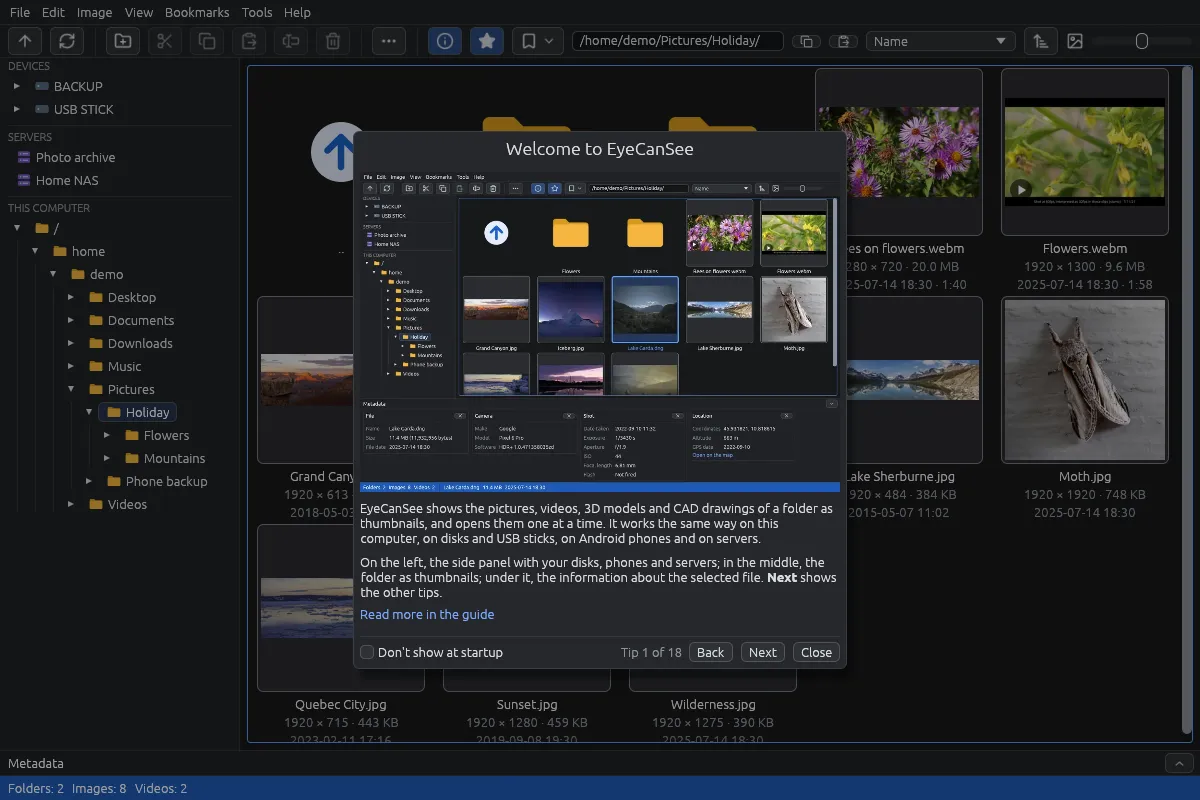
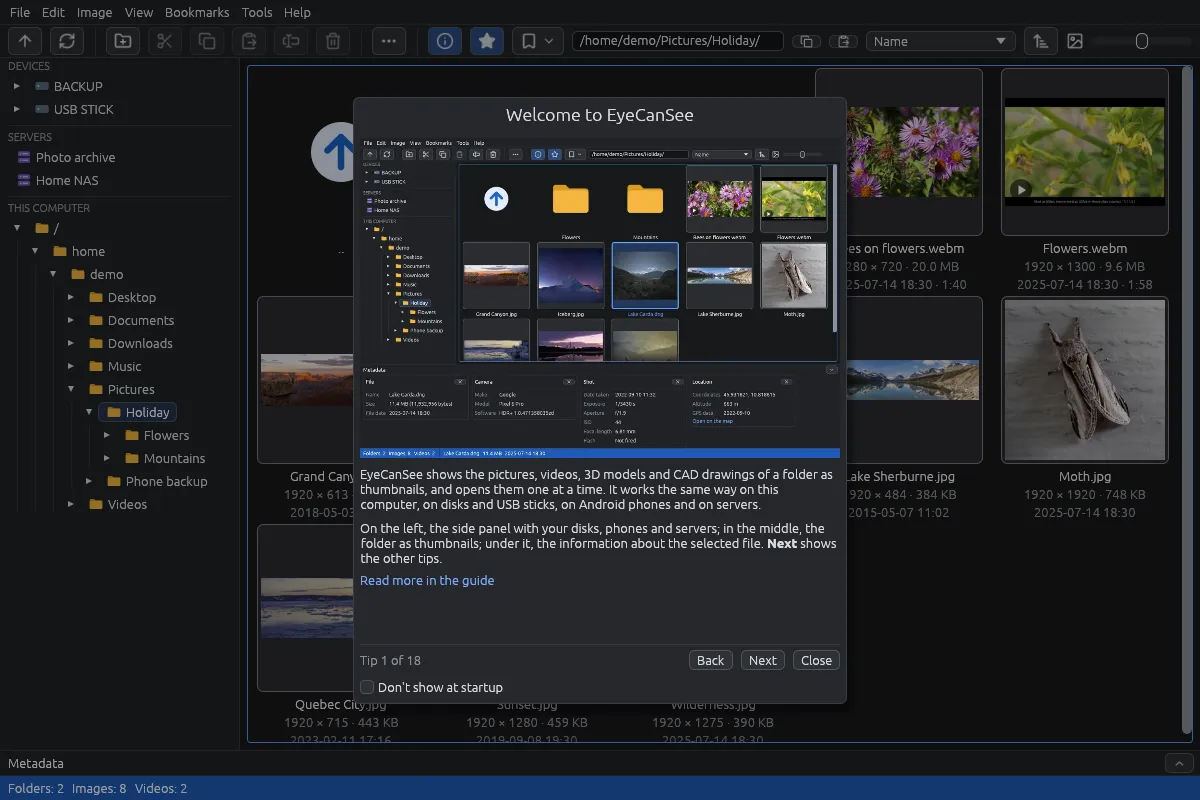
Tips: a window of fixed size, the tip sliding in from the side, a picture for every tip
The buttons stay in place from one tip to the next (the window took the size of each tip, and the
box overlapped the count), the box on its own line at the bottom, one viewer for every picture so it
is not loaded again (it flashed), and after Back or Next the tip slides in from that side as it fades
in (0.2 s). Six pictures made for the tips (docs/tips/, scenes in tools/shots/tips/): the guide
open, the right-click menu, a Cover box, the details under the thumbnails, the metadata panel with
the grid, the slideshow. Rule written in tips.rs and CONTRIBUTING: the tips follow the program.

Refs #113

Changed region(s): [[0.2775, 0.0938, 0.7092, 0.7812], [0.2775, 0.8125, 0.7092, 0.9062]]

diff --git a/src/tips.rs b/src/tips.rs
@@ -3,6 +3,10 @@
 //! link to the guide's page and "Don't show at startup". On by default, also for who updates from
 //! an older version (the key missing from `settings.json`); off from the box or from Options >
 //! General, until turned on there again. The next start shows the tip after the last one seen.
+//!
+//! Keep them true: a change to a feature a tip names (a key, a menu, a window, a picture) changes
+//! the tip in the same commit, `locales/*.ftl` and its picture (`tools/shots/tips/`, or the guide's);
+//! a new main feature gets a tip at the end of `TIPS`, one removed loses its tip.
 
 use std::time::{SystemTime, UNIX_EPOCH};
 
@@ -13,7 +17,7 @@ use crate::App;
 use crate::settings::Settings;
 
 /// One tip: its Fluent ids are `tip-<key>-title` and `tip-<key>-text`; `image` a picture of the
-/// guide (`help::IMAGES`), `page` the guide's page that tells more.
+/// tips (`PICTURES`) or of the guide (`help::IMAGES`), `page` the guide's page that tells more.
 pub(crate) struct Tip {
     pub(crate) key: &'static str,
     pub(crate) image: Option<&'static str>,
@@ -24,27 +28,43 @@ const fn tip(key: &'static str, image: Option<&'static str>, page: &'static str)
     Tip { key, image, page }
 }
 
+/// Pictures made for the tips only, `docs/tips/<name>.webp` (tools/shots/tips/, dark theme).
+macro_rules! pictures {
+    ($($name:literal),* $(,)?) => {
+        const PICTURES: &[(&str, &[u8])] = &[
+            $(($name, include_bytes!(concat!("../docs/tips/", $name, ".webp"))),)*
+        ];
+    };
+}
+
+pictures!["help", "right-click", "cover", "details", "metadata", "slideshow"];
+
+/// The address egui knows a picture by: the tips' own, otherwise the guide's.
+fn picture_uri(name: &str) -> String {
+    if PICTURES.iter().any(|p| p.0 == name) { format!("bytes://tips/{name}.webp") } else { crate::help::image_uri(name) }
+}
+
 /// The main features first, then the ones less in sight. New tips go at the end: who has seen
 /// the others finds them next.
 pub(crate) const TIPS: &[Tip] = &[
     tip("welcome", Some("start"), "start"),
-    tip("help", None, "start"),
-    tip("right-click", None, "start"),
+    tip("help", Some("help"), "start"),
+    tip("right-click", Some("right-click"), "start"),
     tip("phone", Some("phone"), "phone"),
     tip("servers", Some("server-manager"), "servers"),
     tip("viewer", Some("viewer"), "viewer"),
     tip("video", Some("video"), "video"),
     tip("editor", Some("editor"), "editor"),
-    tip("cover", None, "editor-cover"),
+    tip("cover", Some("cover"), "editor-cover"),
     tip("resize", Some("convert"), "convert"),
     tip("convert-video", Some("convert-video"), "convert-video"),
     tip("bookmarks", Some("bookmarks-menu"), "bookmarks"),
-    tip("metadata", Some("metadata-panel"), "metadata"),
+    tip("metadata", Some("metadata"), "metadata"),
     tip("models", Some("model-3d"), "model-3d"),
     tip("duplicates", Some("duplicates"), "duplicates"),
     tip("trash", Some("trash-strip"), "delete"),
-    tip("details", None, "options"),
-    tip("slideshow", None, "slideshow"),
+    tip("details", Some("details"), "options"),
+    tip("slideshow", Some("slideshow"), "slideshow"),
 ];
 
 /// Today, as days since 1970 in UTC.
@@ -67,17 +87,31 @@ pub(crate) fn seen(s: &mut Settings, i: usize, today: u64) {
 }
 
 /// The tip shown, and the viewer of the guide's pages that draws its picture (it also gives egui
-/// the loaders of the pictures, which until the guide is first opened are not there).
+/// the loaders of the pictures, which until the guide is first opened are not there). One viewer
+/// for every tip: a new one at each tip made the picture flash while it was loaded again.
 pub(crate) struct Open {
     i: usize,
     cache: CommonMarkCache,
+    /// The last Back (-1) or Next (1), and when (time of egui): the new tip slides in from that side.
+    from: f32,
+    since: f64,
+    /// The tips' own pictures given to egui.
+    loaded: bool,
 }
 
 impl Open {
     fn new(i: usize) -> Self {
-        Open { i, cache: CommonMarkCache::default() }
+        Open { i, cache: CommonMarkCache::default(), from: 0.0, since: 0.0, loaded: false }
     }
 }
+
+/// The window's content: as wide as the guide's pictures, as tall as a picture and the longest
+/// text, the same for every tip so the buttons stay where they are.
+const WIDTH: f32 = 480.0;
+const BODY: f32 = 500.0;
+/// The slide from the side: how far and how long.
+const SLIDE: f32 = 60.0;
+const SLIDE_SECS: f64 = 0.2;
 
 /// What a click in the window asks.
 enum Choice {
@@ -108,43 +142,39 @@ impl App {
         let Some(open) = &mut self.tip else { return };
         let i = open.i;
         crate::help::load_images(ctx);
+        if !open.loaded {
+            for (name, bytes) in PICTURES {
+                ctx.include_bytes(picture_uri(name), *bytes);
+            }
+            open.loaded = true;
+        }
         let tip = &TIPS[i];
         let t = |id: &str| self.i18n.t(id);
-        let (title, text) = (t(&format!("tip-{}-title", tip.key)), t(&format!("tip-{}-text", tip.key)));
+        let (title, text, link) = (t(&format!("tip-{}-title", tip.key)), t(&format!("tip-{}-text", tip.key)), t("tip-guide"));
+        let count = self.i18n.t_args("tip-count", &[("n", &(i + 1).to_string()), ("of", &TIPS.len().to_string())]);
+        let (back, next, close, off_text, off_hint) = (t("tip-back"), t("tip-next"), t("notice-close"), t("tip-off"), t("tip-off-hint"));
         let mut off = !self.settings.tips;
         let mut choice = None;
         egui::Modal::new(egui::Id::unique("tip")).show(ctx, |ui| {
-            ui.set_width(480.0);
+            ui.set_width(WIDTH);
             crate::save_dialogs::Head::new(&title).show(ui);
-            if let Some(name) = tip.image {
-                ui.add_space(4.0);
-                CommonMarkViewer::new().show(ui, &mut open.cache, &format!("![]({})", crate::help::image_uri(name)));
-            }
-            ui.add_space(6.0);
-            crate::save_dialogs::notice_text(ui, &text);
             ui.add_space(4.0);
-            if ui.link(t("tip-guide")).clicked() {
+            if tip_body(ui, open, &text, &link) {
                 choice = Some(Choice::Guide);
             }
-            ui.add_space(8.0);
             ui.separator();
             ui.horizontal(|ui| {
-                ui.checkbox(&mut off, t("tip-off")).on_hover_text(t("tip-off-hint"));
+                ui.weak(&count);
                 ui.with_layout(egui::Layout::right_to_left(egui::Align::Center), |ui| {
-                    if ui.button(t("notice-close")).clicked() {
-                        choice = Some(Choice::Close);
+                    for (label, c) in [(&close, Choice::Close), (&next, Choice::Next), (&back, Choice::Back)] {
+                        if ui.button(label).clicked() {
+                            choice = Some(c);
+                        }
                     }
-                    if ui.button(t("tip-next")).clicked() {
-                        choice = Some(Choice::Next);
-                    }
-                    if ui.button(t("tip-back")).clicked() {
-                        choice = Some(Choice::Back);
-                    }
-                    let n = (i + 1).to_string();
-                    let of = TIPS.len().to_string();
-                    ui.weak(self.i18n.t_args("tip-count", &[("n", &n), ("of", &of)]));
                 });
             });
+            ui.add_space(4.0);
+            ui.checkbox(&mut off, off_text).on_hover_text(off_hint);
         });
         let keys = ctx.input(|k| (k.key_pressed(egui::Key::Escape), k.key_pressed(egui::Key::ArrowRight), k.key_pressed(egui::Key::ArrowLeft)));
         choice = choice.or(match keys {
@@ -158,10 +188,10 @@ impl App {
             log!("tips: at startup {}", self.settings.tips);
             self.settings.save();
         }
-        let len = TIPS.len();
+        let (len, now) = (TIPS.len(), ctx.input(|k| k.time));
         match choice {
-            Some(Choice::Next) => self.tip_shown((i + 1) % len),
-            Some(Choice::Back) => self.tip_shown((i + len - 1) % len),
+            Some(Choice::Next) => self.tip_shown((i + 1) % len, 1.0, now),
+            Some(Choice::Back) => self.tip_shown((i + len - 1) % len, -1.0, now),
             Some(Choice::Close) => self.tip = None,
             Some(Choice::Guide) => {
                 self.tip = None;
@@ -172,11 +202,40 @@ impl App {
     }
 
     /// Back or Next: the tip shown is the last one seen.
-    fn tip_shown(&mut self, i: usize) {
-        self.tip = Some(Open::new(i));
+    fn tip_shown(&mut self, i: usize, from: f32, now: f64) {
+        if let Some(open) = &mut self.tip {
+            (open.i, open.from, open.since) = (i, from, now);
+        }
         seen(&mut self.settings, i, today());
         self.settings.save();
     }
+}
+
+/// Picture, text and link of the tip, in a box of fixed size; after Back or Next it slides in from
+/// that side while it fades in. `true`: the link was clicked.
+fn tip_body(ui: &mut egui::Ui, open: &mut Open, text: &str, link: &str) -> bool {
+    let (rect, _) = ui.allocate_exact_size(egui::vec2(WIDTH, BODY), egui::Sense::hover());
+    let done = ((ui.input(|k| k.time) - open.since) / SLIDE_SECS).clamp(0.0, 1.0) as f32;
+    if done < 1.0 {
+        ui.ctx().request_repaint();
+    }
+    // Fast at first, slow at the end (ease-out cubic).
+    let eased = 1.0 - (1.0 - done).powi(3);
+    let shift = if open.from == 0.0 { 0.0 } else { open.from * SLIDE * (1.0 - eased) };
+    let mut body = ui.new_child(egui::UiBuilder::new().max_rect(rect.translate(egui::vec2(shift, 0.0))).layout(egui::Layout::top_down(egui::Align::Min)));
+    body.set_clip_rect(rect.intersect(ui.clip_rect()));
+    if open.from != 0.0 {
+        body.multiply_opacity(eased);
+    }
+    if let Some(name) = TIPS[open.i].image {
+        body.vertical_centered(|ui| {
+            CommonMarkViewer::new().max_image_width(Some(WIDTH as usize)).show(ui, &mut open.cache, &format!("![]({})", picture_uri(name)));
+        });
+    }
+    body.add_space(6.0);
+    crate::save_dialogs::notice_text(&mut body, text);
+    body.add_space(4.0);
+    body.link(link).clicked()
 }
 
 #[cfg(test)]
@@ -227,7 +286,8 @@ mod tests {
                 let id = format!("tip-{}-{part}", tip.key);
                 assert_ne!(en.t(&id), id, "{id} missing");
             }
-            assert!(tip.image.is_none_or(|n| crate::help::IMAGES.iter().any(|(name, _)| *name == n)), "{}: picture", tip.key);
+            let known = |n: &str| PICTURES.iter().chain(crate::help::IMAGES).any(|(name, _)| *name == n);
+            assert!(tip.image.is_none_or(known), "{}: picture", tip.key);
             assert!(crate::help::PAGES.iter().any(|p| p.1 == tip.page), "{}: page", tip.key);
         }
     }

diff --git a/CONTRIBUTING.md b/CONTRIBUTING.md
@@ -15,6 +15,7 @@ Bug reports and suggestions go in the [issues](https://github.com/IoSonoPiero/ey
      ```rust
      $(("<code>", $id, include_str!(concat!("../docs/help/<code>/", $id, ".md"))),)*
      ```
+   - The tips at startup (`src/tips.rs`) need nothing more: their texts are the `tip-…` messages of `locales/<code>.ftl`, their pictures stay in English.
    - `src/help_check.rs`: the language and the title of its contents page in `LANGS`, and the translated name of each area in `CONTRACT` (`names` gets one more entry).
 4. Run `cargo test`. It checks that every language has the same message ids as English, and that the guide is consistent: every language has exactly the same pages, each page starts with its title and has the same headings as the English one, with nothing deeper than `###`; the contents page lists every page once, in the right areas and order, under its real title; links lead to existing pages (`<page>.md`, without `#` anchors), pictures to files in `docs/help/img/`, icons to icons the program has, and other links are `https://`; every page shows the same pictures and placeholders as the English one; every picture is shown by some page; the pages and pictures embedded in the program are exactly the files of the guide; and every F1 spot in the code (`"help:<page>"`) has its page in every language.
 5. Try it: `EYECANSEE_LANG=<code> cargo run -- ~/Pictures`, and press F1.
